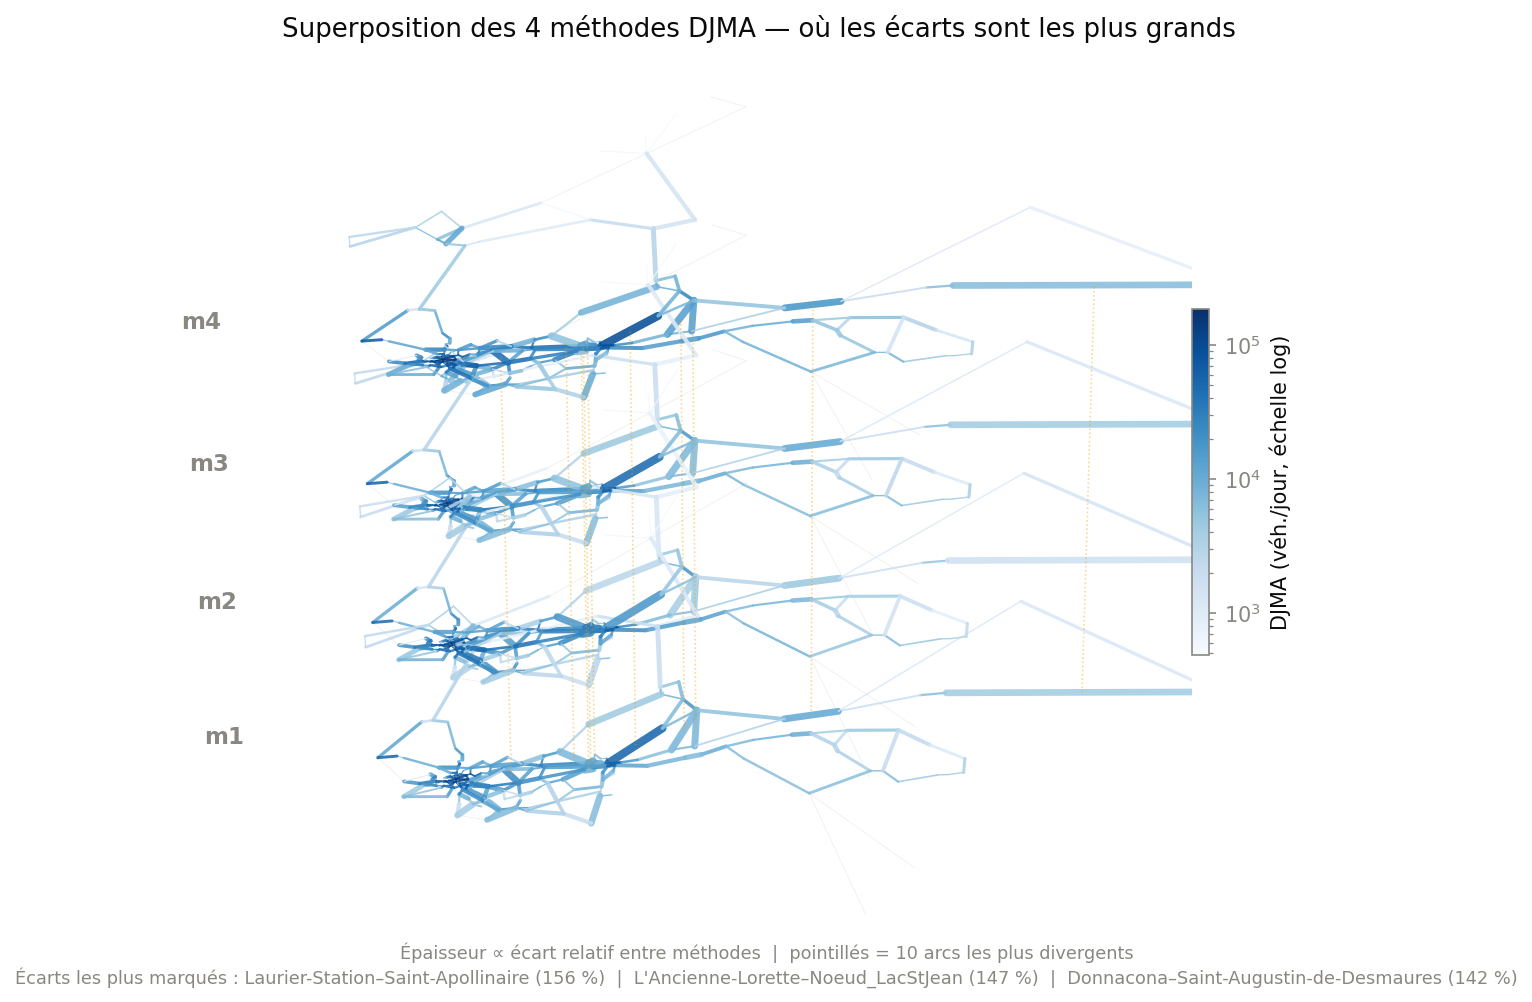
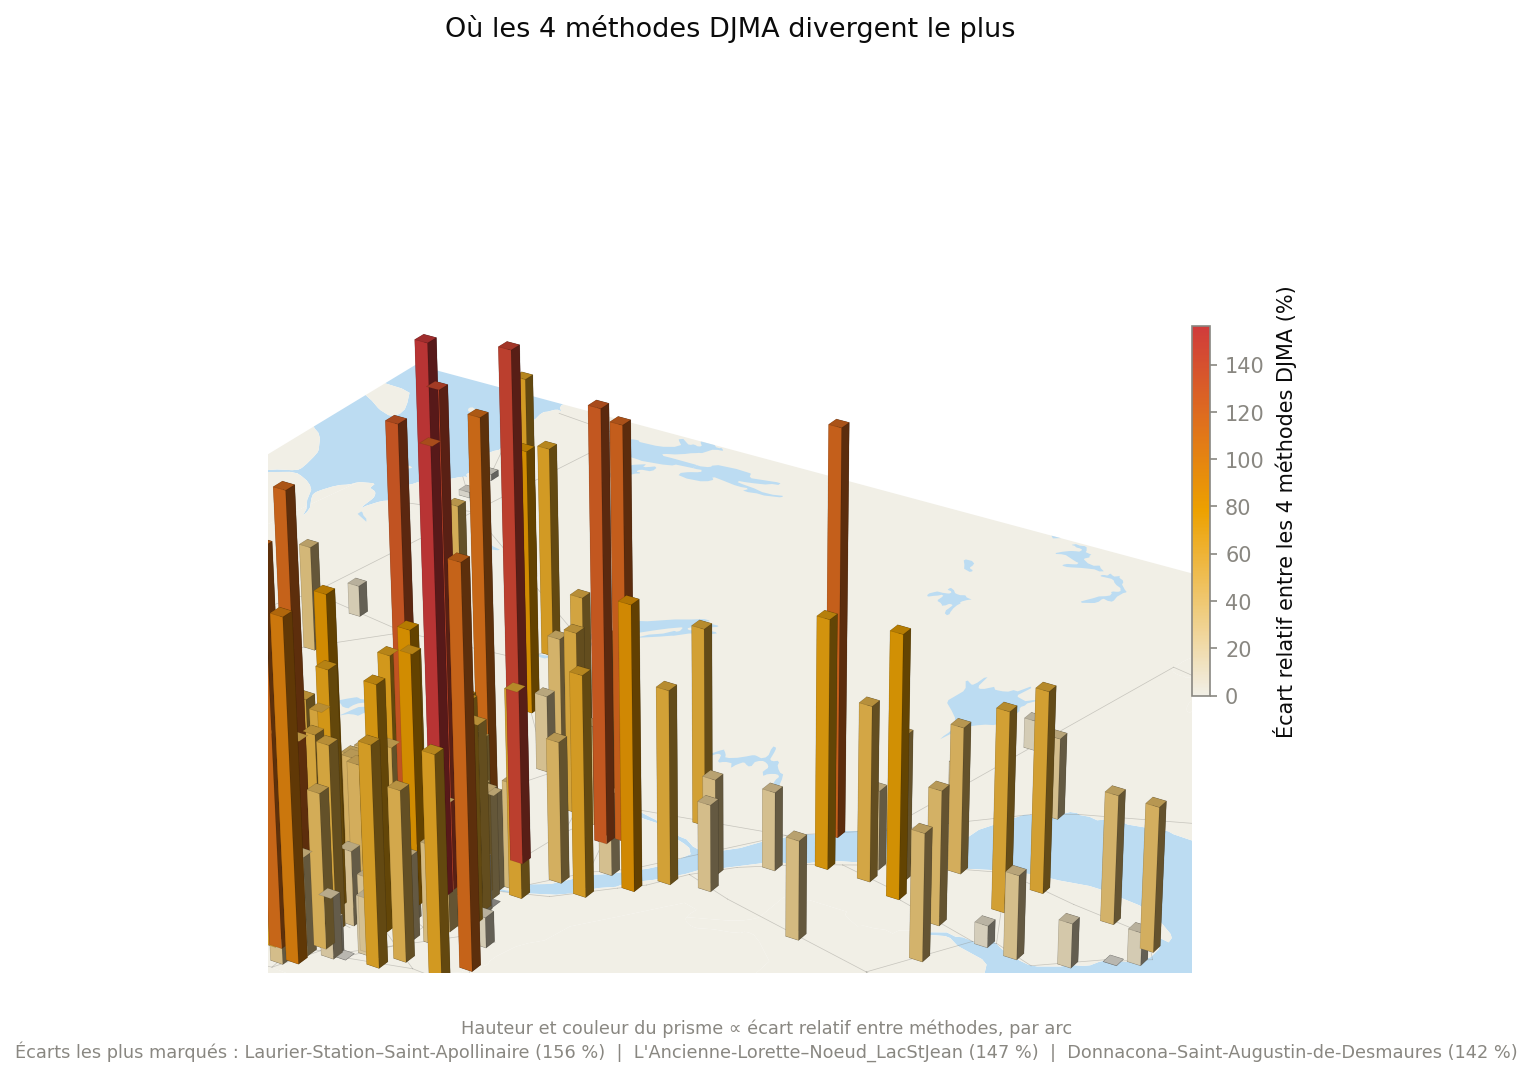
feat: carte 3D à prismes (densité) pour la divergence DJMA
Remplace la V1 "4 plateaux empilés" par une vraie carte de densité 3D
(ax.bar3d), à l'image d'une carte de densité urbaine : un prisme par
arc sur le fond de carte du Québec (Natural Earth, déjà en cache),
hauteur et couleur (crème → ambre → rouge) = écart relatif entre les
4 méthodes DJMA. Un arc homogène reste une colonne basse fondue dans
le fond ; un arc divergent devient un pic rouge net.

Fond de carte rendu en 3D via Poly3DCollection (geopandas.plot() ne
fonctionne pas sur un axe 3D) ; ax.computed_zorder=False + zorder
explicite pour éviter que le fond ne s'affiche par-dessus les prismes
(bug observé en V1 de cette itération : les provinces voisines non
découpées à l'emprise masquaient toute la scène).

diff --git a/scripts/generer_figures_resultats.py b/scripts/generer_figures_resultats.py
@@ -8,9 +8,9 @@ Génère 5 PNG dans figures/ :
      prédit vs réel, avec R² et RMSE
   2. randomforest_subsets.png        : la même validation croisée, facettée par type
      de route — le "subset" que le modèle apprend à distinguer
-  3. carte_3d_divergence_methodes.png : réseau routier empilé en 4 plateaux (m1-m4),
-     colorés par DJMA — épaisseur des traits et connecteurs verticaux mettant en
-     évidence les arcs où les 4 méthodes divergent le plus
+  3. carte_3d_divergence_methodes.png : carte de densité 3D (prismes façon
+     ax.bar3d) sur fond de carte du Québec — hauteur et couleur (crème→ambre→
+     rouge) = écart relatif entre les 4 méthodes DJMA, par arc
   4. carte_reseau_djma.png          : carte statique du réseau, arcs colorés par DJMA (m4)
   5. carte_resultats.png            : carte statique OK (vert) / échec (rouge, orange)
 """
@@ -21,8 +21,9 @@ import geopandas as gpd
 import matplotlib.pyplot as plt
 import numpy as np
 import pandas as pd
-from matplotlib.colors import LogNorm
+from matplotlib.colors import LinearSegmentedColormap, LogNorm, Normalize
 from mpl_toolkits.mplot3d import Axes3D  # noqa: F401 — enregistre la projection 3D
+from mpl_toolkits.mplot3d.art3d import Poly3DCollection
 from sklearn.ensemble import RandomForestRegressor
 from sklearn.metrics import mean_squared_error, r2_score
 from sklearn.model_selection import KFold, cross_val_predict
@@ -45,6 +46,14 @@ RESEAU_LAYER = "arcs_enrichis_djma"
 
 ARCS_FILE   = RACINE / "data" / "processed" / "graphe_routier.gpkg"
 ARCS_LAYER  = "arcs_enrichis"
+
+# Fond de carte 3D — mêmes fichiers Natural Earth déjà mis en cache par
+# generer_figure_donnees.py (pas d'import croisé, cf. COULEURS_ROUTE ci-dessous).
+DIR_REFERENCE = RACINE / "data" / "reference"
+PATH_FOND_ADMIN = DIR_REFERENCE / "ne_50m_admin_1_states_provinces.zip"
+PATH_FOND_OCEAN = DIR_REFERENCE / "ne_50m_ocean.zip"
+PATH_FOND_LACS  = DIR_REFERENCE / "ne_50m_lakes.zip"
+MARGE_M = 20_000
 
 N_ANNEES  = 10
 DJMA_COLS = [f"val_djma_annee_{i}" for i in range(1, N_ANNEES + 1)]
@@ -193,15 +202,48 @@ def figure_randomforest_subsets(cv: dict) -> None:
     print("  randomforest_subsets.png")
 
 
-def figure_carte_3d_divergence_methodes() -> None:
-    """Réseau routier empilé en 4 plateaux (m1 à m4, bas → haut).
+def _charger_fond_quebec_3d(bbox: tuple) -> dict | None:
+    """Fond de carte Québec (Natural Earth), pour la scène 3D uniquement.
 
-    Couleur = DJMA de la méthode (rampe séquentielle Blues, échelle log commune
-    aux 4 plateaux : une teinte qui change verticalement au même endroit EST le
-    signal de divergence). Épaisseur du trait (identique sur les 4 plateaux) et
-    connecteurs verticaux = écart relatif entre méthodes — "densité" sur les
-    arcs les plus hétérogènes, remplace les anciennes figures distribution_djma
-    / comparaison_methodes (jugées redondantes, aucune information spatiale).
+    Ne réutilise pas charger_fond_geographique() de generer_figure_donnees.py :
+    l'importer déclencherait le téléchargement de police et le rcParams global
+    Arimo de ce module (effets de bord déjà évités ici, cf. COULEURS_ROUTE).
+    Relit les mêmes fichiers déjà mis en cache par ce script — aucun accès
+    réseau si generer_figure_donnees.py a déjà tourné une fois.
+    """
+    if not (PATH_FOND_ADMIN.exists() and PATH_FOND_OCEAN.exists() and PATH_FOND_LACS.exists()):
+        return None
+    from shapely.geometry import box
+    minx, miny, maxx, maxy = bbox
+    fenetre = box(minx, miny, maxx, maxy)
+
+    fond   = gpd.read_file(PATH_FOND_ADMIN).to_crs("EPSG:32198").cx[minx:maxx, miny:maxy]
+    quebec = gpd.clip(fond[fond["name"] == "Québec"], fenetre)
+    autres = gpd.clip(fond[fond["name"] != "Québec"], fenetre)
+    ocean  = gpd.clip(gpd.read_file(PATH_FOND_OCEAN).to_crs("EPSG:32198").cx[minx:maxx, miny:maxy], fenetre)
+    lacs   = gpd.clip(gpd.read_file(PATH_FOND_LACS).to_crs("EPSG:32198").cx[minx:maxx, miny:maxy], fenetre)
+    return {"quebec": quebec, "autres": autres, "ocean": ocean, "lacs": lacs}
+
+
+def _poly3d_depuis_geoms(geoms, couleur: str, alpha: float = 1.0) -> Poly3DCollection:
+    """Convertit des polygones (Polygon/MultiPolygon) en Poly3DCollection à z=0
+    — geopandas.plot() ne fonctionne pas sur un axe 3D."""
+    faces = []
+    for geom in geoms:
+        if geom is None or geom.is_empty:
+            continue
+        polys = list(geom.geoms) if geom.geom_type == "MultiPolygon" else [geom]
+        for poly in polys:
+            xs, ys = poly.exterior.xy
+            faces.append(list(zip(xs, ys, [0.0] * len(xs))))
+    return Poly3DCollection(faces, facecolor=couleur, edgecolor="none", alpha=alpha)
+
+
+def figure_carte_3d_divergence_methodes() -> None:
+    """Carte 3D à prismes (façon carte de densité) : un prisme par arc, sur le
+    fond de carte du Québec. Hauteur ET couleur (crème → ambre → rouge) =
+    écart relatif entre les 4 méthodes DJMA pour cet arc — remplace la V1
+    "4 plateaux empilés", jugée moins parlante qu'une vraie carte de densité.
     """
     cols = ["djma_m1", "djma_m2", "djma_m3", "djma_m4"]
     djma = gpd.read_file(RESEAU_FILE, layer=RESEAU_LAYER)[["ID_ARC"] + cols]
@@ -212,66 +254,70 @@ def figure_carte_3d_divergence_methodes() -> None:
     valides["ecart_pct"] = (
         (valides[cols].max(axis=1) - valides[cols].min(axis=1)) / valides[cols].mean(axis=1) * 100
     )
-    sans_valeur = gdf[gdf[cols].isna().any(axis=1)]
+    centroides = valides.geometry.centroid
+    valides["cx"] = centroides.x
+    valides["cy"] = centroides.y
 
-    vmin = valides[cols].min().min()
-    vmax = valides[cols].max().max()
-    norm = LogNorm(vmin=vmin, vmax=vmax)
-    cmap = plt.get_cmap("Blues")
+    minx, miny, maxx, maxy = gdf.total_bounds
+    span_x, span_y = (maxx - minx), (maxy - miny)
+    bbox = (minx - MARGE_M, miny - MARGE_M, maxx + MARGE_M, maxy + MARGE_M)
 
-    def largeur(ecart_pct: float) -> float:
-        return 0.5 + min(ecart_pct, 150.0) / 150.0 * 3.5
+    FOOTPRINT = min(span_x, span_y) * 0.012
+    Z_SCALE   = (0.15 * min(span_x, span_y)) / valides["ecart_pct"].max()
 
-    ACCENT = COULEURS_M["m4"]
-    N_TOP  = 10
-    top_divergents = valides.nlargest(N_TOP, "ecart_pct")
+    CREME  = "#f1efe6"   # même teinte que le fond de carte (FOND_TERRE)
+    AMBRE  = COULEURS_M["m4"]
+    ROUGE  = CRITIQUE
+    cmap_prisme = LinearSegmentedColormap.from_list("cirano_divergence", [CREME, AMBRE, ROUGE])
+    norm = Normalize(vmin=0, vmax=valides["ecart_pct"].max())
 
-    fig = plt.figure(figsize=(10, 7.5))
+    fig = plt.figure(figsize=(10, 8))
     ax = fig.add_subplot(111, projection="3d")
+    ax.computed_zorder = False  # respecter l'ordre d'ajout — le tri auto de mplot3d
+                                 # peut faire passer le fond devant les prismes
 
-    for _, row in sans_valeur.iterrows():
+    fond = _charger_fond_quebec_3d(bbox)
+    if fond is not None:
+        for cle, couleur in [("ocean", "#bcdcf2"), ("autres", CREME),
+                              ("quebec", CREME), ("lacs", "#bcdcf2")]:
+            collection = _poly3d_depuis_geoms(fond[cle].geometry, couleur)
+            collection.set_zorder(1)
+            ax.add_collection3d(collection)
+
+    for _, row in gdf.iterrows():
         xs, ys = row.geometry.xy
-        for z in range(4):
-            ax.plot(xs, ys, [z] * len(xs), color="#e1e0d9", linewidth=0.4, alpha=0.5)
+        ligne, = ax.plot(xs, ys, [0] * len(xs), color=GRIS_AXE, linewidth=0.35, alpha=0.4)
+        ligne.set_zorder(2)
 
-    for _, row in valides.iterrows():
-        xs, ys = row.geometry.xy
-        lw = largeur(row["ecart_pct"])
-        for z, col in enumerate(cols):
-            couleur = cmap(norm(row[col]))
-            ax.plot(xs, ys, [z] * len(xs), color=couleur, linewidth=lw, alpha=0.88,
-                     solid_capstyle="round")
-
-    for _, row in top_divergents.iterrows():
-        cx, cy = row.geometry.centroid.x, row.geometry.centroid.y
-        ax.plot([cx, cx], [cy, cy], [0, 3], color=ACCENT, linewidth=0.8,
-                 alpha=0.4, linestyle=(0, (1, 1.5)))
-
-    xmin, ymin = gdf.total_bounds[0], gdf.total_bounds[1]
-    for z in range(4):
-        ax.text(xmin, ymin, z, f"m{z + 1}", fontsize=11, fontweight="bold", color=GRIS_AXE)
+    x  = valides["cx"].values
+    y  = valides["cy"].values
+    dz = valides["ecart_pct"].values * Z_SCALE
+    couleurs_bar = cmap_prisme(norm(valides["ecart_pct"].values))
+    barres = ax.bar3d(x - FOOTPRINT / 2, y - FOOTPRINT / 2, 0, FOOTPRINT, FOOTPRINT, dz,
+                        color=couleurs_bar, shade=True, edgecolor=(0, 0, 0, 0.12), linewidth=0.3)
+    barres.set_zorder(3)
 
     ax.set_axis_off()
-    ax.set_zlim(-0.2, 3.3)
-    ax.view_init(elev=24, azim=-60)
+    ax.set_xlim(bbox[0], bbox[2])
+    ax.set_ylim(bbox[1], bbox[3])
+    ax.view_init(elev=26, azim=-58)
     try:
-        ax.set_box_aspect((1, 1, 0.55), zoom=1.6)
+        ax.set_box_aspect((span_x, span_y, span_y * 0.5), zoom=2.3)
     except TypeError:
-        ax.set_box_aspect((1, 1, 0.55))
+        ax.set_box_aspect((span_x, span_y, span_y * 0.5))
 
-    sm = plt.cm.ScalarMappable(cmap=cmap, norm=norm)
+    sm = plt.cm.ScalarMappable(cmap=cmap_prisme, norm=norm)
     cbar = fig.colorbar(sm, ax=ax, shrink=0.4, pad=0.0)
-    cbar.set_label("DJMA (véh./jour, échelle log)")
+    cbar.set_label("Écart relatif entre les 4 méthodes DJMA (%)")
 
-    ax.set_title("Superposition des 4 méthodes DJMA — où les écarts sont les plus grands",
-                 fontsize=12.5)
+    ax.set_title("Où les 4 méthodes DJMA divergent le plus", fontsize=13)
 
-    top3 = top_divergents.nlargest(3, "ecart_pct")
+    top3 = valides.nlargest(3, "ecart_pct")
     lignes_top3 = "  |  ".join(
         f"{row['VILLE_A']}–{row['VILLE_B']} ({row['ecart_pct']:.0f} %)" for _, row in top3.iterrows()
     )
-    fig.text(0.5, 0.05,
-             f"Épaisseur ∝ écart relatif entre méthodes  |  pointillés = {N_TOP} arcs les plus divergents\n"
+    fig.text(0.5, 0.04,
+             f"Hauteur et couleur du prisme ∝ écart relatif entre méthodes, par arc\n"
              f"Écarts les plus marqués : {lignes_top3}",
              ha="center", fontsize=8.5, color=GRIS_AXE)
 

diff --git a/README.md b/README.md
@@ -186,9 +186,9 @@ Pour chaque arc, le DJMA agrégé est calculé de 4 façons à partir de ses seg
 | **m3** | Pondérée par type d'axe routier (hiérarchie MTQ) | 12 152 |
 | **m4** | 80e percentile par rang (nearest-rank) : valeur réelle du segment classé à la position `round(0,8 × n)`, sans interpolation ni moyenne | 15 351 |
 
-![Superposition des 4 méthodes DJMA](figures/carte_3d_divergence_methodes.png)
+![Carte de densité 3D — écart entre les 4 méthodes DJMA](figures/carte_3d_divergence_methodes.png)
 
-Plutôt qu'une simple comparaison statistique, cette carte empile le réseau routier en 4 plateaux (m1 à m4, bas → haut) : la couleur encode le DJMA (échelle log commune aux 4 plateaux), et l'épaisseur du trait — identique sur les 4 plateaux — encode l'écart relatif entre méthodes pour cet arc. Un arc homogène reste fin et de teinte stable d'un plateau à l'autre ; un arc où les méthodes divergent devient une ligne épaisse qui traverse visuellement toute la pile, soulignée par un connecteur vertical pointillé pour les 10 arcs les plus divergents. Les écarts les plus marqués se situent sur des tronçons courts à faible nombre de segments contributeurs, où un seul segment extrême pèse beaucoup plus sur m4 (percentile) que sur m1-m3 (moyennes) : Laurier-Station–Saint-Apollinaire (156 %), L'Ancienne-Lorette–Nœud Lac-St-Jean (147 %), Donnacona–Saint-Augustin-de-Desmaures (142 %).
+Plutôt qu'une simple comparaison statistique, cette carte projette l'écart relatif entre les 4 méthodes sous forme de prismes 3D sur le réseau routier québécois — à la manière d'une carte de densité : chaque arc devient une colonne dont la hauteur ET la couleur (crème → ambre → rouge) encodent son écart relatif entre m1-m4. Un arc où les 4 méthodes s'accordent reste une colonne basse, presque invisible dans le fond de carte ; un arc où elles divergent fortement devient un pic rouge qui se détache nettement du relief. Les écarts les plus marqués se situent sur des tronçons courts à faible nombre de segments contributeurs, où un seul segment extrême pèse beaucoup plus sur m4 (percentile) que sur m1-m3 (moyennes) : Laurier-Station–Saint-Apollinaire (156 %), L'Ancienne-Lorette–Nœud Lac-St-Jean (147 %), Donnacona–Saint-Augustin-de-Desmaures (142 %).
 
 m1, m2 et m3 sont fortement corrélées entre elles (Pearson ≥ 0,979) car elles moyennent la même population de segments différemment. m4 reste bien corrélée (Pearson ≈ 0,97-0,98) tout en s'en écartant légèrement : c'est voulu, elle vise à capturer les pointes de trafic (80e percentile réel) plutôt que la tendance centrale. 134 des 307 arcs montrent un écart relatif > 30 % entre méthodes — un signal que le choix de méthode d'agrégation a un impact réel et doit être fait explicitement selon l'usage (planification vs dimensionnement).
 
